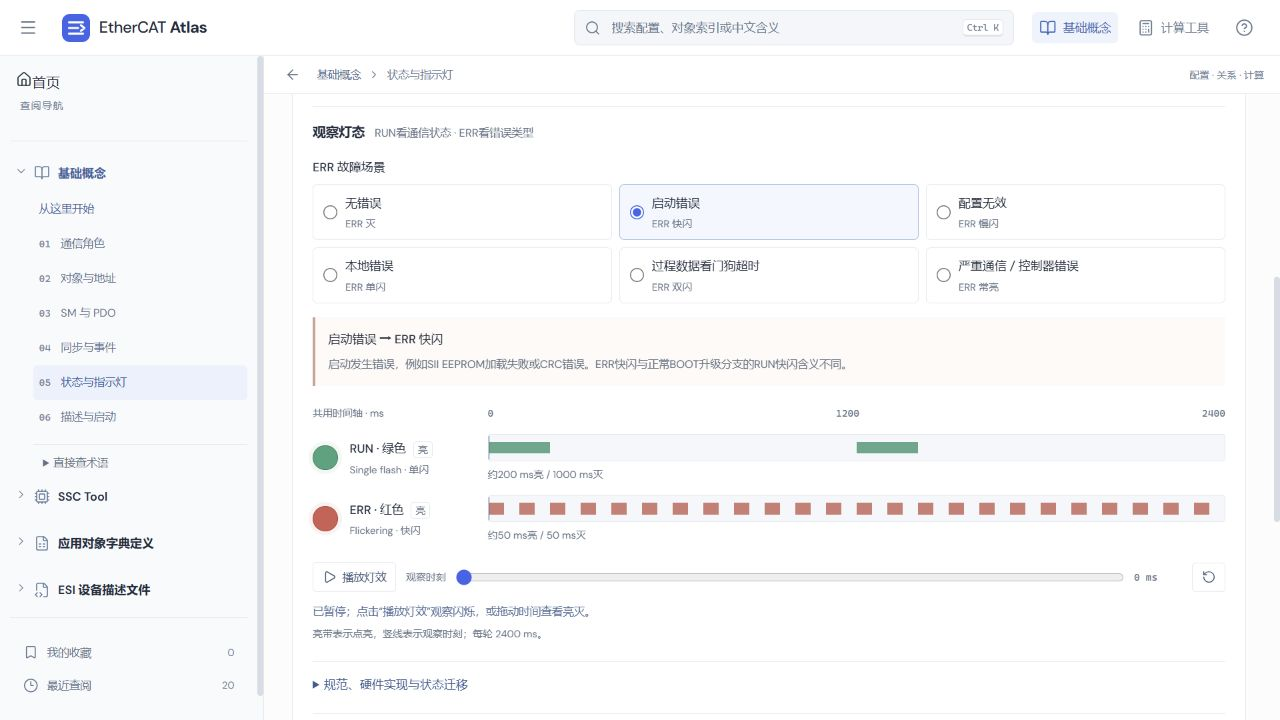
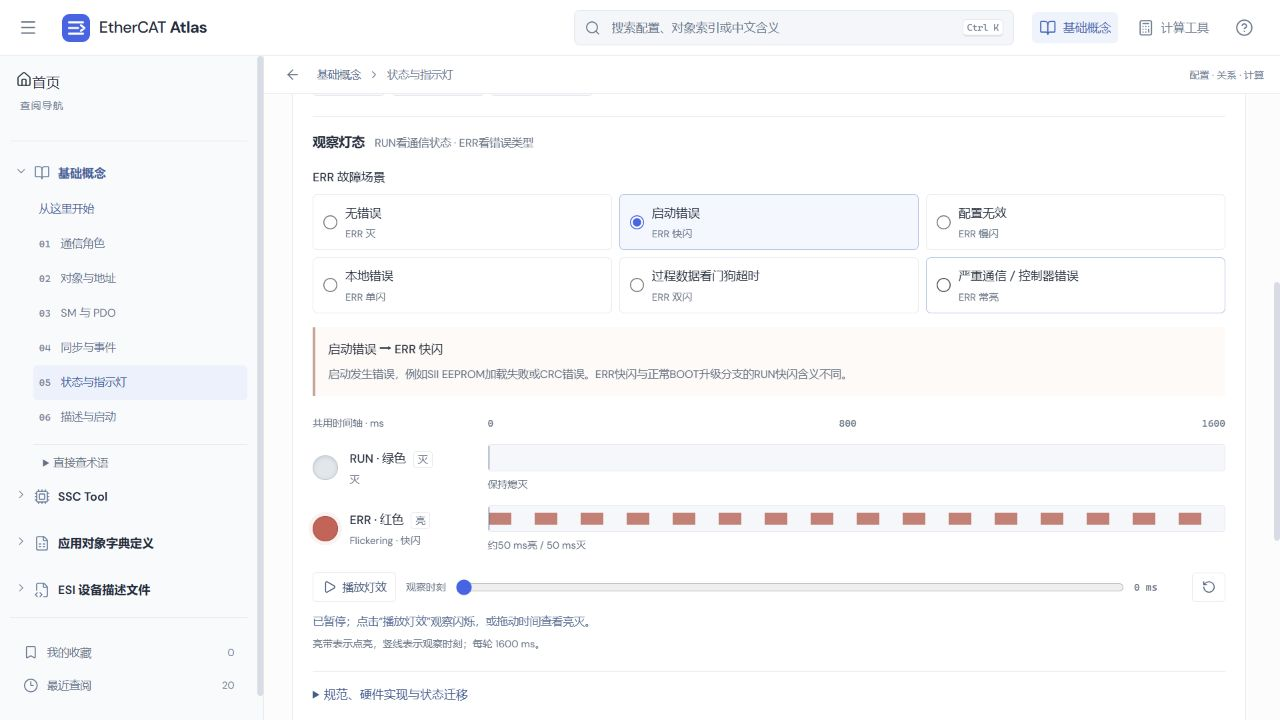
docs: verify six-state ERR guide deployment

diff --git a/docs/acceptance/state-led-guide.md b/docs/acceptance/state-led-guide.md
@@ -43,7 +43,7 @@ ERR场景 -> ERR模式 ----+-> 共用循环窗口 -> 亮带、灯、游标、读
 
 关键证据：[默认无错误解释](state-led-guide/default-panel.jpg)、[启动错误快闪](state-led-guide/boot-error.jpg)、[窄屏控制与规范说明](state-led-guide/mobile-controls.png)。其他过程画面留在temp目录。
 
-当前阶段：v1.5.2 本地实现与界面核验完成，准备按既有授权提交、推送和发布。范围为教学内容和局部灯态交互，不连接设备或写入寄存器。
+当前阶段：v1.5.2 本地实现、实际界面与Pages部署核验完成。范围为教学内容和局部灯态交互，不连接设备或写入寄存器。
 
 ## 交付候选
 
@@ -51,4 +51,7 @@ ERR场景 -> ERR模式 ----+-> 共用循环窗口 -> 亮带、灯、游标、读
 - ZIP：`ethercat-atlas-v1.5.2.zip`，607746 Byte，共32个文件；29个dist文件逐个核对SHA256一致。
[1 lines of base64/hex data omitted]
 - 在交付目录使用包内Node脚本启动，没有node_modules；入口和主脚本HTTP均200。测试服务已关闭，本机审核预览4181仍由工具管理的前台会话提供。
-- 生产依赖审计：0漏洞。提交、线上部署与发布资产回读待完成。
+- 生产依赖审计：0漏洞。
+- 代码提交：`30b9e4bd4c209019457d342e4d3cb9d495a55990`；[GitHub验证与Pages部署](https://github.com/loogg/tool-ethercat-config/actions/runs/40251873705)均成功。
+- 已下载29个线上静态文件，与Pages子路径候选逐个SHA256核对全部一致。线上浏览器确认可见v1.5.2、六种ERR选项及默认“无错误→ERR灭”解释。
+- 线上入口：[状态与指示灯](https://loogg.github.io/tool-ethercat-config/#/entry/learn-state?collection=concepts&pane=detail)。后续验收文档与截图提交不改变已核验的运行代码。
